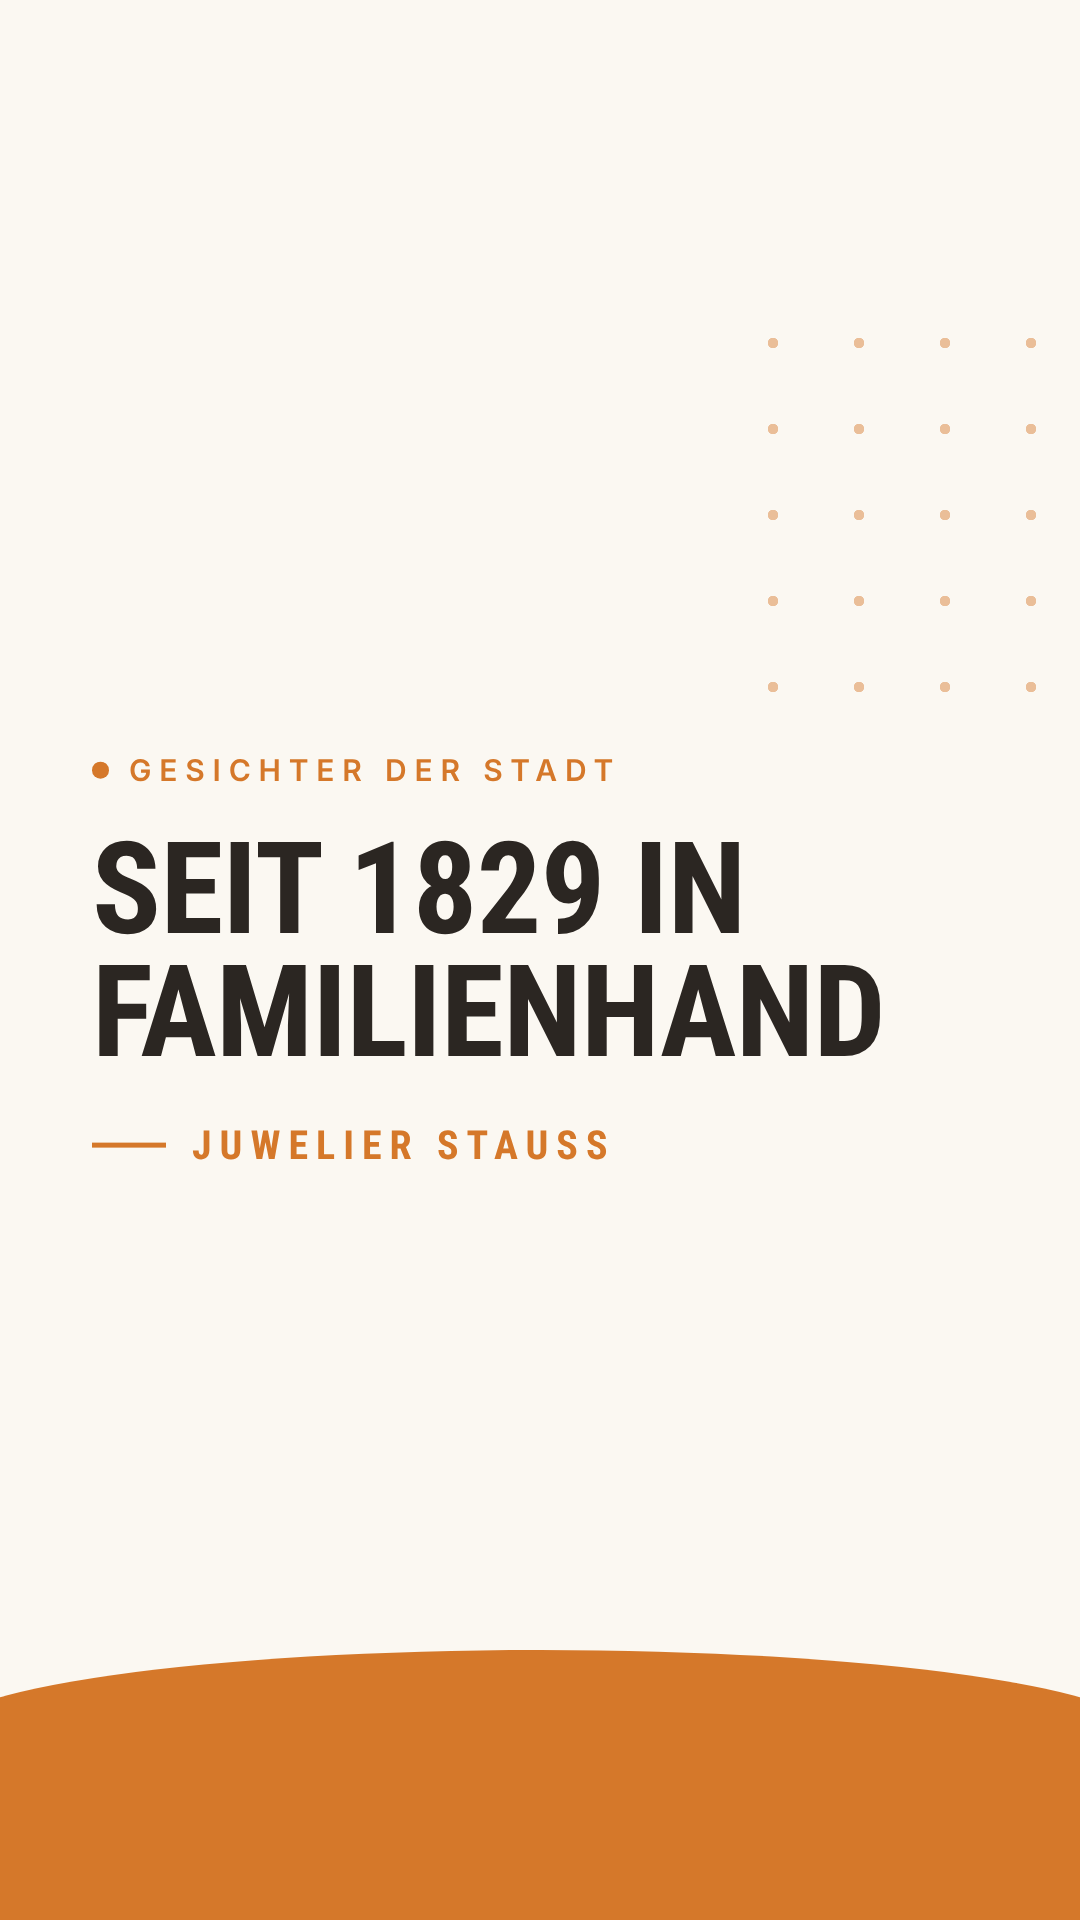
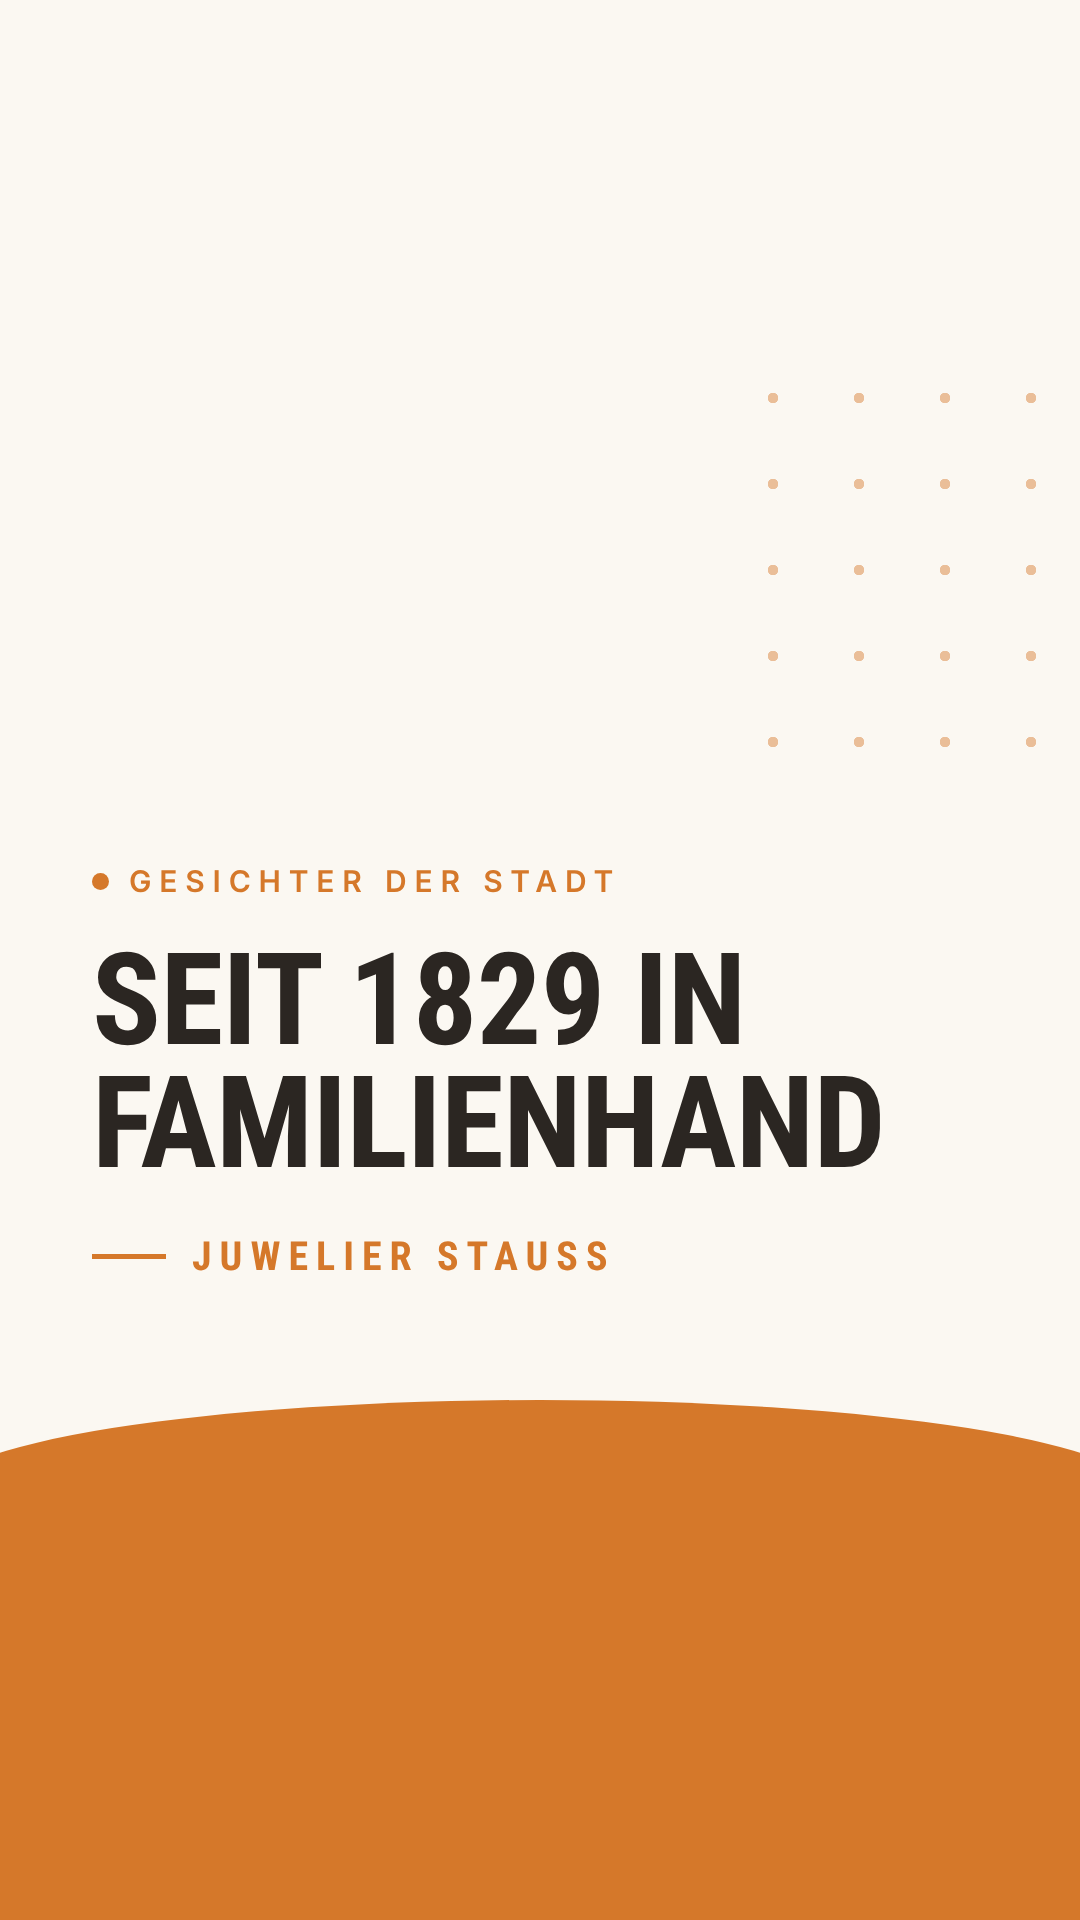
Lay out the reel covers for the crop the feed actually shows
The file stays 9:16, but almost nobody sees it that way. The feed and
the profile grid keep only the middle 1080x1350, and in full screen
Instagram puts its own controls over roughly the top 250px and the
bottom 350px. The previous layout survived that crop but was not
composed for it: the arc fell outside the frame entirely, so in the
feed the cover had no foot and a large empty area under the business
name.

Everything that is drawn now sits inside the 4:5 frame - dot grid at
the top, text below it, arc as the foot - and what lies outside is
plain ground colour, exactly where the controls land.

The text block hangs off the arc instead of being centred. Centred it
sat too high in the crop and left the hole described above; anchored,
the headline lands at the same height on every cover whatever the
title's length, so the grid reads as a series rather than as
unrelated images.

The crop boundaries are constants at the head of the file, and
--pruef renders them over the image to check the result.

Claude-Session: https://claude.ai/code/session_011k2AAdyFJhvbu85riK4Cz8

diff --git a/tools/reel.js b/tools/reel.js
@@ -2,12 +2,26 @@
    Vorschaubilder für Reels
 
    Einheitliche Titelbilder in der Handschrift des Projekts.
-   1080 x 1920, also 9:16 wie das Reel selbst.
+   Die Datei ist 1080 x 1920, also 9:16 wie das Reel selbst –
+   gestaltet wird aber für den Ausschnitt, den Instagram davon
+   tatsächlich zeigt.
 
-   Instagram legt oben rund 250 px mit Name und Ton-Symbol zu und
-   unten rund 350 px mit Bildtext und Knöpfen. Im Profilraster bleibt
-   nur die Mitte stehen. Deshalb sitzt der ganze Satz mittig um
-   y = 960 – dort überlebt er beide Zuschnitte.
+   Drei Ansichten, drei Zuschnitte:
+
+     Vollbild 9:16   das ganze Bild. Oben rund 250 px und unten rund
+                     350 px liegen unter Instagrams Bedienleisten.
+     Feed 4:5        nur die Mitte: 1080 x 1350, also y 285 bis 1635.
+     Profilraster    derselbe mittige Ausschnitt.
+
+   Gemeinsamer Nenner ist der Feed-Rahmen. Der ganze Entwurf steckt
+   darin: Punkteraster oben, Text darunter, Bogen als Fuss. Was
+   ausserhalb liegt, ist nur Grundfarbe – und liegt genau dort, wo
+   Instagram seine Bedienleisten hinlegt.
+
+   Der Satz haengt am Bogen, statt mittig zu stehen. Damit sitzt die
+   Ueberschrift auf jedem Vorschaubild auf derselben Hoehe, egal wie
+   lang der Titel ist – im Profilraster liegen sie dadurch auf einer
+   Linie und die Reihe liest sich als Reihe.
 
    Einmalig:  cd tools && npm install && npx playwright install chromium
 
@@ -15,6 +29,7 @@
      node tools/reel.js "Seit 1829 in Familienhand" --betrieb "Juwelier Stauss"
      node tools/reel.js "Drei Geheimtipps|aus der Altstadt" --stil orange
      node tools/reel.js "Hinter den Kulissen" --betrieb "Borrelli" --bild standbild.jpg
+     node tools/reel.js "Titel" --pruef        zeigt die Zuschnitte eingeblendet
 
    Ein | im Titel erzwingt einen Zeilenumbruch.
 ============================================================ */
@@ -27,6 +42,25 @@ const { chromium } = require("playwright");
 const REPO = path.join(__dirname, "..");
 const FONTS = path.join(__dirname, "node_modules", "@fontsource");
 const ZIEL = path.join(REPO, "reels");
+
+/* ----------------------------------------------------- Geometrie --- */
+
+const BREITE = 1080;
+const HOEHE = 1920;
+const FEED_HOEHE = 1350;                            // 4:5 bei 1080 Breite
+const FEED_OBEN = (HOEHE - FEED_HOEHE) / 2;         // 285
+const FEED_UNTEN = FEED_OBEN + FEED_HOEHE;          // 1635
+
+/* Der Bogen beginnt noch im Feed-Rahmen, damit er dort als Fuss zu
+   sehen ist, und läuft bis zum unteren Bildrand durch. Im Vollbild
+   wird daraus das Farbband unter Instagrams Bedienleiste. */
+const BOGEN_OBEN = 1400;
+
+/* Der Satz haengt am Bogen statt mittig zu stehen: im Feed-Zuschnitt
+   sass er sonst zu hoch und darunter blieb ein Loch. */
+const SATZ_FUSS = BOGEN_OBEN - 120;   // 1280
+
+/* ------------------------------------------------------- Schrift --- */
 
 const b64 = (p) => fs.readFileSync(p).toString("base64");
 const typ = (p) => (/\.jpe?g$/i.test(p) ? "image/jpeg" : /\.webp$/i.test(p) ? "image/webp" : "image/png");
@@ -54,7 +88,7 @@ const STILE = {
             bogen: "#d5782a", raster: null, rasterDeck: "0" },
 };
 
-function vorlage({ titel, betrieb, stil, hintergrund, groesse }) {
+function vorlage({ titel, betrieb, stil, hintergrund, groesse, pruef }) {
   const s = STILE[stil];
   /* Jedes Wort bekommt eine eigene Huelle. Nur so laesst sich nachher
      messen, ob eines davon umgebrochen werden musste. */
@@ -67,10 +101,27 @@ function vorlage({ titel, betrieb, stil, hintergrund, groesse }) {
        <div class="schleier"></div>`
     : (s.raster ? `<span class="raster"></span>` : "");
 
+  /* Nur für den Blick von aussen: zeigt, was im Feed übrig bleibt und
+     was unter Instagrams Bedienleisten verschwindet. */
+  const pruefCss = `
+.pruef__ui{position:absolute;left:0;right:0;background:repeating-linear-gradient(45deg,
+  rgba(220,40,40,.30) 0 14px,rgba(220,40,40,.12) 14px 28px)}
+.pruef__oben{top:0;height:250px}
+.pruef__unten{bottom:0;height:350px}
+.pruef__feed{position:absolute;left:0;right:0;top:${FEED_OBEN}px;height:${FEED_HOEHE}px;
+  border:5px dashed #1d6fd8}
+.pruef__etikett{position:absolute;left:18px;top:${FEED_OBEN + 16}px;font-family:"Inter",sans-serif;
+  font-weight:600;font-size:26px;letter-spacing:.14em;color:#1d6fd8;text-transform:uppercase}`;
+
+  const pruefHtml = pruef
+    ? `<div class="pruef__ui pruef__oben"></div><div class="pruef__ui pruef__unten"></div>
+       <div class="pruef__feed"></div><div class="pruef__etikett">Feed 4:5</div>`
+    : "";
+
   return `<!doctype html><meta charset="utf-8"><style>
 ${schriftCss}
 *{margin:0;padding:0;box-sizing:border-box}
-body{width:1080px;height:1920px;overflow:hidden;position:relative;background:${s.grund};
+body{width:${BREITE}px;height:${HOEHE}px;overflow:hidden;position:relative;background:${s.grund};
      font-family:"Roboto Condensed",sans-serif;-webkit-font-smoothing:antialiased}
 
 .still{position:absolute;inset:0;background-size:cover;background-position:center}
@@ -78,12 +129,13 @@ body{width:1080px;height:1920px;overflow:hidden;position:relative;background:${s
 .schleier{position:absolute;inset:0;background:linear-gradient(180deg,
   rgba(43,38,34,.42) 0%,rgba(43,38,34,.66) 42%,rgba(43,38,34,.90) 100%)}
 
-.raster{position:absolute;right:-80px;top:300px;width:430px;aspect-ratio:1;
+/* Alles Gestaltete liegt zwischen y=${FEED_OBEN} und y=${FEED_UNTEN} – dem Ausschnitt,
+   den der Feed und das Profilraster vom Hochformat übrig lassen. */
+.raster{position:absolute;right:-80px;top:${FEED_OBEN + 70}px;width:430px;aspect-ratio:1;
         color:${s.raster};opacity:${s.rasterDeck};
         background-image:radial-gradient(currentColor 5px,transparent 5.5px);background-size:20% 20%}
 
-/* Mittig um y=960: überlebt Bedienleisten und Rasterzuschnitt. */
-.satz{position:absolute;left:92px;right:92px;top:50%;transform:translateY(-50%)}
+.satz{position:absolute;left:92px;right:92px;bottom:${HOEHE - SATZ_FUSS}px}
 
 .eyebrow{font-family:"Inter",sans-serif;font-weight:600;font-size:30px;letter-spacing:.26em;
          text-transform:uppercase;color:${s.eyebrow};display:flex;align-items:center;gap:20px;
@@ -99,8 +151,10 @@ body{width:1080px;height:1920px;overflow:hidden;position:relative;background:${s
          color:${s.betrieb};margin-top:48px;display:flex;align-items:center;gap:26px}
 .betrieb::before{content:"";width:74px;height:5px;background:currentColor;flex:none}
 
-.bogen{position:absolute;left:-6%;right:-6%;bottom:0;height:270px;background:${s.bogen};
-       border-radius:50% 50% 0 0 / 86px 86px 0 0}
+/* Beginnt im Feed-Rahmen und läuft bis zum Bildrand durch. */
+.bogen{position:absolute;left:-6%;right:-6%;top:${BOGEN_OBEN}px;bottom:0;background:${s.bogen};
+       border-radius:50% 50% 0 0 / 96px 96px 0 0}
+${pruef ? pruefCss : ""}
 </style>
 ${grundFlaeche}
 <div class="satz">
@@ -108,7 +162,8 @@ ${grundFlaeche}
   <div id="titel">${zeilen}</div>
   ${betrieb ? `<div class="betrieb">${esc(betrieb)}</div>` : ""}
 </div>
-<div class="bogen"></div>`;
+<div class="bogen"></div>
+${pruefHtml}`;
 }
 
 /* ------------------------------------------------------- Aufruf --- */
@@ -119,20 +174,23 @@ const hole = (name) => {
   const i = args.indexOf("--" + name);
   return i >= 0 ? args[i + 1] : null;
 };
+const schalter = (name) => args.includes("--" + name);
 
 if (!titel) {
   console.error(`Vorschaubild für ein Reel.
 
   node tools/reel.js "Titel des Reels" [--betrieb "Name"] [--stil creme|orange|bild]
-                     [--bild standbild.jpg] [--datei name.png]
+                     [--bild standbild.jpg] [--datei name.png] [--pruef]
 
   Ein | im Titel erzwingt einen Zeilenumbruch.
+  --pruef blendet den Feed-Zuschnitt und die Bedienleisten ein.
   Ohne --datei landet das Bild unter reels/<titel>.png`);
   process.exit(1);
 }
 
 const betrieb = hole("betrieb") || "";
 const bildPfad = hole("bild");
+const pruef = schalter("pruef");
 const stil = hole("stil") || (bildPfad ? "bild" : "creme");
 if (!STILE[stil]) { console.error(`Unbekannter Stil "${stil}". Erlaubt: ${Object.keys(STILE).join(", ")}`); process.exit(1); }
 
@@ -146,14 +204,16 @@ if (!STILE[stil]) { console.error(`Unbekannter Stil "${stil}". Erlaubt: ${Object
 
   const browser = await chromium.launch(
     process.env.CHROMIUM_PFAD ? { executablePath: process.env.CHROMIUM_PFAD } : {});
-  const seite = await browser.newPage({ viewport: { width: 1080, height: 1920 }, deviceScaleFactor: 1 });
+  const seite = await browser.newPage({ viewport: { width: BREITE, height: HOEHE }, deviceScaleFactor: 1 });
 
-  /* Schriftgrad so weit herunter, bis der Titel in die Schutzzone passt.
+  /* Schriftgrad so weit herunter, bis der Satz in den Feed-Rahmen passt.
      Lieber kleiner setzen als über den Rand laufen lassen. */
   let groesse = 128, zerrissen = false;
-  const MIN = 68, PLATZ = 760;        // Höhe, die dem Titel bleibt
+  const MIN = 68;
+  const PLATZ_TITEL = 760;
+  const PLATZ_SATZ = SATZ_FUSS - FEED_OBEN;         // bis an die Oberkante des Feed-Rahmens
   for (;;) {
-    await seite.setContent(vorlage({ titel, betrieb, stil, hintergrund, groesse }), { waitUntil: "load" });
+    await seite.setContent(vorlage({ titel, betrieb, stil, hintergrund, groesse, pruef }), { waitUntil: "load" });
     await seite.evaluate(() => document.fonts.ready);
     const m = await seite.evaluate(() => {
       const t = document.getElementById("titel");
@@ -166,10 +226,10 @@ if (!STILE[stil]) { console.error(`Unbekannter Stil "${stil}". Erlaubt: ${Object
                zerrissen: [...t.querySelectorAll(".w")].some((w) => w.getClientRects().length > 1) };
     });
     zerrissen = m.zerrissen;
-    if ((m.titelHoehe <= PLATZ && m.satzHoehe <= 1100 && !m.zerrissen) || groesse <= MIN) break;
+    if ((m.titelHoehe <= PLATZ_TITEL && m.satzHoehe <= PLATZ_SATZ && !m.zerrissen) || groesse <= MIN) break;
     groesse -= 6;
   }
-  if (groesse < 128) console.log(`  · Titel auf ${groesse}px verkleinert, damit er in die Schutzzone passt`);
+  if (groesse < 128) console.log(`  · Titel auf ${groesse}px verkleinert, damit er in den Feed-Rahmen passt`);
   if (groesse <= MIN) console.warn(`  ! Titel steht am kleinsten Grad (${MIN}px) – auf dem Handy ` +
                                    `wirkt ein kürzerer Titel deutlich besser. Mit | umbrechen hilft.`);
   if (zerrissen) console.warn(`  ! Ein Wort passt selbst dann nicht in eine Zeile und steht jetzt ` +
@@ -177,7 +237,7 @@ if (!STILE[stil]) { console.error(`Unbekannter Stil "${stil}". Erlaubt: ${Object
 
   await seite.waitForTimeout(250);
   fs.mkdirSync(ZIEL, { recursive: true });
-  const datei = hole("datei") || slug(titel) + ".png";
+  const datei = hole("datei") || slug(titel) + (pruef ? "-pruef" : "") + ".png";
   await seite.screenshot({ path: path.join(ZIEL, datei) });
   await seite.close();
   await browser.close();

diff --git a/README.md b/README.md
@@ -145,6 +145,7 @@ node tools/reel.js "Hinter den Kulissen" --betrieb "Borrelli" --bild standbild.j
 | `--stil` | `creme`, `orange` oder `bild`. Ohne Angabe `creme`, mit `--bild` automatisch `bild` |
 | `--bild` | Standbild aus dem Reel als Hintergrund, mit Schleier darüber |
 | `--datei` | Dateiname. Ohne Angabe aus dem Titel abgeleitet |
+| `--pruef` | Blendet den Feed-Zuschnitt und die Bedienleisten ein – zum Nachsehen, nicht zum Hochladen |
 
 Drei Stile, mehr nicht – einheitlich wird es dadurch, dass es wenige
 sind. `creme` und `orange` im Wechsel halten das Raster lebendig, `bild`
@@ -155,19 +156,39 @@ fertige Post-Kachel.** Eine Kachel bringt ihren eigenen Text mit, der
 durch den Schleier durchschlägt und sich mit dem Titel beisst. Ist das
 Standbild sehr hell, darf der Schleier in `.schleier` kräftiger werden.
 
-### Warum der Text in der Mitte steht
+### 9:16 hochladen, für 4:5 gestalten
 
-Instagram legt über das Reel oben rund 250 px mit Name und Ton-Symbol
-und unten rund 350 px mit Bildtext und Knöpfen. Im Profilraster bleibt
-umgekehrt nur die Mitte stehen – der Rest wird beschnitten. Was oben
-oder unten sitzt, ist also entweder verdeckt oder weg. Deshalb sitzt
-der ganze Satz mittig um y = 960; dort überlebt er beide Zuschnitte.
-Der Bogen unten ist bewusst nur Schmuck: dass er im Raster wegfällt,
-kostet keine Information.
+Die Datei ist 1080 × 1920, also 9:16 wie das Reel selbst. Zu sehen
+bekommt man das aber fast nie ganz:
 
-Der Titel wird automatisch kleiner gesetzt, wenn er sonst aus der
-Schutzzone läuft – von 128 px in Schritten bis herunter auf 68 px. Wird
-es dort eng, sagt das Werkzeug es beim Lauf. Ein Wort, das selbst dann
+| Ansicht | Was übrig bleibt |
+|---|---|
+| Vollbild 9:16 | alles – oben rund 250 px und unten rund 350 px liegen unter Instagrams Bedienleisten |
+| Feed | nur die Mitte, 1080 × 1350 (4:5), also y 285 bis 1635 |
+| Profilraster | derselbe mittige Ausschnitt |
+
+Gemeinsamer Nenner ist der **Feed-Rahmen**: 1080 × 1350 aus der Mitte.
+Der ganze Entwurf steckt darin – Punkteraster oben, Text darunter,
+Bogen als Fuss. Was ausserhalb liegt, ist nur Grundfarbe, und das
+liegt genau dort, wo Instagram ohnehin seine Bedienleisten hinlegt.
+Deshalb lässt sich das Bild als 9:16 hochladen, ohne dass im Feed ein
+angeschnittener Entwurf ankommt.
+
+Der Satz hängt am Bogen, statt mittig zu stehen. Das war eine
+Korrektur: mittig gesetzt sass er im Feed-Zuschnitt zu hoch, und
+darunter blieb eine leere Fläche. Am Bogen verankert sitzt die
+Überschrift auf jedem Vorschaubild auf derselben Höhe, egal wie lang
+der Titel ist – im Profilraster liegen sie dadurch auf einer Linie
+und die Reihe liest sich als Reihe.
+
+Die Zahlen stehen als Konstanten am Kopf von `tools/reel.js`
+(`FEED_OBEN`, `BOGEN_OBEN`, `SATZ_FUSS`). Wer daran dreht, prüft das
+Ergebnis mit `--pruef`: das legt den Feed-Rahmen und die
+Bedienleisten sichtbar über das Bild.
+
+Der Titel wird automatisch kleiner gesetzt, wenn er sonst aus dem
+Rahmen läuft – von 128 px in Schritten bis herunter auf 68 px. Wird es
+dort eng, sagt das Werkzeug es beim Lauf. Ein Wort, das selbst dann
 nicht in eine Zeile passt, wird umgebrochen statt abgeschnitten, und
 auch das wird gemeldet. Kurze Titel wirken auf dem Telefon ohnehin
 besser; `|` an der richtigen Stelle ist meist die bessere Lösung als
